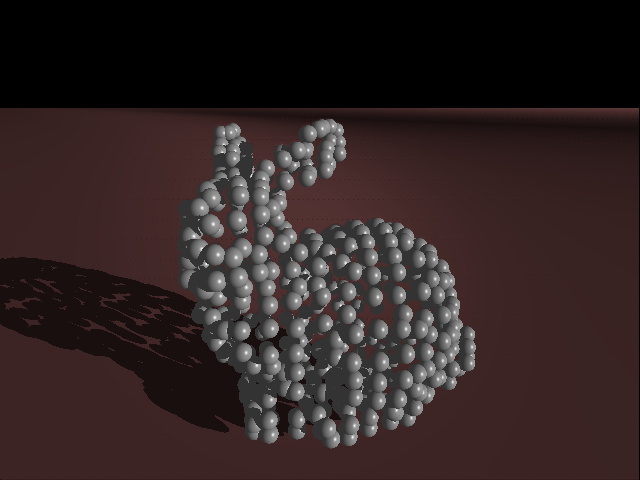
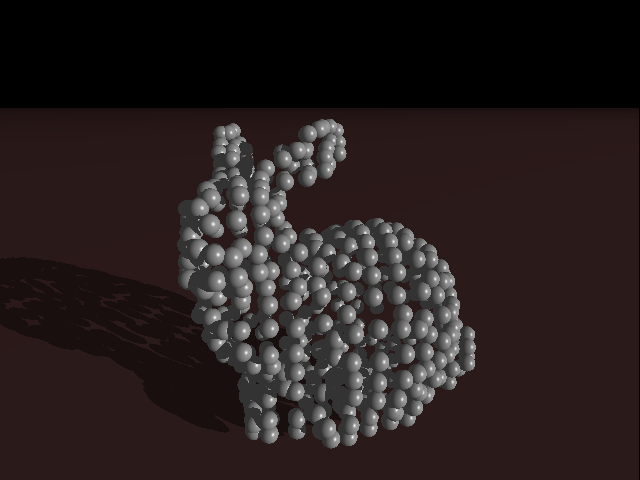
Fixed an issue with plane normals.

diff --git a/src/Scene.cpp b/src/Scene.cpp
@@ -6,6 +6,7 @@
 
 #include <iostream>
 #include "Scene.h"
+#include "Globals.h"
 #include "nyuparser.h"
 
 using namespace std;
@@ -28,11 +29,11 @@ Scene* Scene::read(std::fstream & input)
    NYUParser *parser = new NYUParser;
    parser->parse(input, *curScene);
    /*
-   for (int geomNdx = 0; geomNdx < (int)curScene->geometry.size(); geomNdx++)
-   {
+      for (int geomNdx = 0; geomNdx < (int)curScene->geometry.size(); geomNdx++)
+      {
       curScene->geometry[geomNdx]->debug();
-   }
-   */
+      }
+      */
    delete parser;
    return curScene;
 }
@@ -130,21 +131,25 @@ Pixel Scene::shade(HitData *data, Vector3f view)
             nDotL *= -1;
          }
 
-         result.c.r += data->object->f.diffuse*data->object->p.c.r * nDotL *
-            curLight->r;
-         result.c.g += data->object->f.diffuse*data->object->p.c.g * nDotL *
-            curLight->g;
-         result.c.b += data->object->f.diffuse*data->object->p.c.b * nDotL *
-            curLight->b;
+         if (nDotL > 0)
+         {
+            result.c.r += data->object->f.diffuse*data->object->p.c.r * nDotL *
+               curLight->r;
+            result.c.g += data->object->f.diffuse*data->object->p.c.g * nDotL *
+               curLight->g;
+            result.c.b += data->object->f.diffuse*data->object->p.c.b * nDotL *
+               curLight->b;
+         }
 
          // Specular (Phong).
-         Vector3f r = reflect(l, n);
+         Vector3f r = mReflect(l, n);
          r.normalize();
          Vector3f v = view;
          v.normalize();
          float rDotV = r.dot(v);
          rDotV = (float)pow(rDotV, 1.0f / data->object->f.roughness);
          rDotV = min(rDotV, 1.0f);
+         
          if (rDotV > 0)
          {
             result.c.r += data->object->f.specular*data->object->p.c.r * rDotV *
@@ -159,7 +164,9 @@ Pixel Scene::shade(HitData *data, Vector3f view)
    return result;
 }
 
-Vector3f Scene::reflect(Vector3f d, Vector3f n)
-{
+/*
+   Vector3f Scene::reflect(Vector3f d, Vector3f n)
+   {
    return n * (2 * (-d.dot(n))) + d;
-}
+   }
+   */

diff --git a/src/Globals.h b/src/Globals.h
@@ -4,7 +4,12 @@
  * @date 06/22/2011
  */
 
+#ifndef _GLOBALS_H
+#define _GLOBALS_H
+
 #include <cstdlib>
+#include <Eigen/Dense>
+
 
 inline int randInt()
 {
@@ -25,3 +30,16 @@ inline float min3(float a, float b, float c)
 {
    return std::min(std::min(a, b), c);
 }
+
+/*
+Eigen::Vector3f reflect(Eigen::Vector3f d, Eigen::Vector3f n)
+{
+   return n * (2 * (-d.dot(n))) + d;
+}
+*/
+
+#define mReflect(d, n) ((n) * (2 * (-(d).dot(n))) + d)
+
+#define mPrintVec(v) cout << "<" << v.x() << ", " << v.y() << ", " << v.z() << ">" << endl;
+
+#endif

diff --git a/src/Plane.h b/src/Plane.h
@@ -31,7 +31,7 @@ class Plane : public Geometry
       int hit(const Ray & ray, float *t, HitData *data = NULL, float minT = 0.0, float maxT = MAX_DIST);
 
       // Returns the normal of the current geometry object at the specified point.
-      Vector3f getNormal(Vector3f point);
+      Vector3f getNormal(const Vector3f & point);
 
       inline void debug()
       {

diff --git a/src/Pixel.cpp b/src/Pixel.cpp
@@ -5,10 +5,20 @@
  */
 
 #include "Pixel.h"
+#include <algorithm>
+
+using namespace std;
 
 Pixel::Pixel(double r, double g, double b)
 {
    c.r = r;
    c.g = g;
    c.b = b;
+}
+
+void Pixel::clamp()
+{
+   c.r = min(max(c.r, 0.0), 1.0);
+   c.g = min(max(c.g, 0.0), 1.0);
+   c.b = min(max(c.b, 0.0), 1.0);
 }

diff --git a/src/Scene.h b/src/Scene.h
@@ -44,7 +44,7 @@ class Scene
       // Calculates proper shading at the current point.
       Pixel shade(HitData *data, Vector3f view);
 
-      Vector3f reflect(Vector3f incident, Vector3f normal);
+      //Vector3f reflect(Vector3f incident, Vector3f normal);
 
       Camera camera;
 

diff --git a/src/Plane.cpp b/src/Plane.cpp
@@ -42,7 +42,7 @@ int Plane::hit(const Ray & ray, float *t, HitData *data, float minT, float maxT)
    return 0;
 }
 
-Vector3f Plane::getNormal(Vector3f point)
+Vector3f Plane::getNormal(const Vector3f & point)
 {
    return p_t.normal;
 }

diff --git a/src/Pixel.h b/src/Pixel.h
@@ -16,6 +16,8 @@ class Pixel
 
       Pixel(double r, double g, double b);
 
+      void clamp();
+
       // The color of the pixel.
       color c;
 

diff --git a/src/HitData.h b/src/HitData.h
@@ -19,5 +19,9 @@ struct HitData
 
    Geometry *object;
 
+   Vector3f *reflect;
+   
+   Vector3f *refract;
+
 };
 #endif
